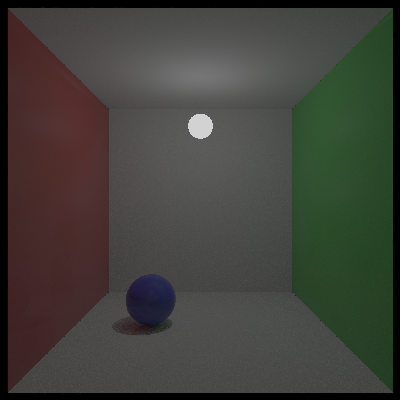
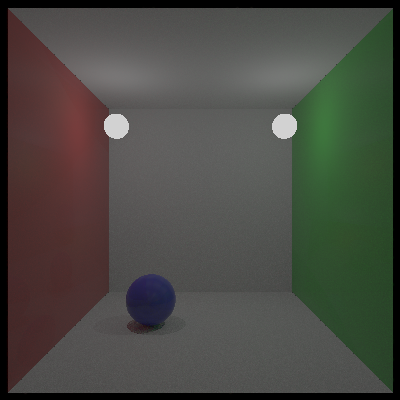
minor optimization of shadow casting

diff --git a/src/cgg/RayTracer.java b/src/cgg/RayTracer.java
@@ -267,7 +267,7 @@ public class RayTracer implements Sampler
 		{
 			// shadow checking
 			Vec3 __LightDir = p_Light.direction(hit.position());
-			if (_shadowCast(hit,__LightDir,p_Light.distance(hit.position()))) continue;
+			if (_shadowCast(hit,__LightDir)) continue;
 
 			// distribution component
 			Vec3 __Halfway = normalize(add(__CameraDir,__LightDir));
@@ -359,9 +359,7 @@ public class RayTracer implements Sampler
 		Vec3 __GI = divide(__GIResult,__SmpWeight);
 		__GI = multiply(__GI,add(multiply(__GIFresnel,__LUT.r()),__LUT.g()));
 		__GI = multiply(add(__GI,__DGI),__Cavity);
-		out = mix(out,color(__GI),.5);
-
-		return out;
+		return mix(out,color(__GI),.5);
 	}
 
 	private Vec3 _diffuseComponent(Vec2 coord,int depth,Hit hit,Vec3 fresnel,double metallic)
@@ -431,7 +429,7 @@ public class RayTracer implements Sampler
 
 			// shadow calculation
 			Vec3 __LightDirection = p_Light.direction(hit.position());
-			if (_shadowCast(hit,__LightDirection,p_Light.distance(hit.position()))) continue;
+			if (_shadowCast(hit,__LightDirection)) continue;
 
 			// diffuse component
 			double __Attitude = dot(hit.normal(),__LightDirection);
@@ -451,7 +449,7 @@ public class RayTracer implements Sampler
 		return clamp(__Result);
 	}
 
-	private boolean _shadowCast(Hit hit,Vec3 ldir,double ldist)
+	private boolean _shadowCast(Hit hit,Vec3 ldir)
 	{
 		Ray __ShadowRay = new Ray(hit.position(),ldir);
 		Queue<HitTuple> __Hits = scene.groot.intersect(__ShadowRay);

diff --git a/src/cgg/scne/AnimalFarm.java b/src/cgg/scne/AnimalFarm.java
@@ -23,7 +23,8 @@ public class AnimalFarm extends Scene
 									));
 		*/
 
-		craeveTheVorbiddenLaemp(vec3(0,-4,-2.5),color(.7,.7,.7),.7);
+		craeveTheVorbiddenLaemp(vec3(-1.7,-4,-2.5),color(.7,.7,.7),.7);
+		craeveTheVorbiddenLaemp(vec3(1.7,-4,-2.5),color(.7,.7,.7),.7);
 		groot.update_bounds();
 	}
 
